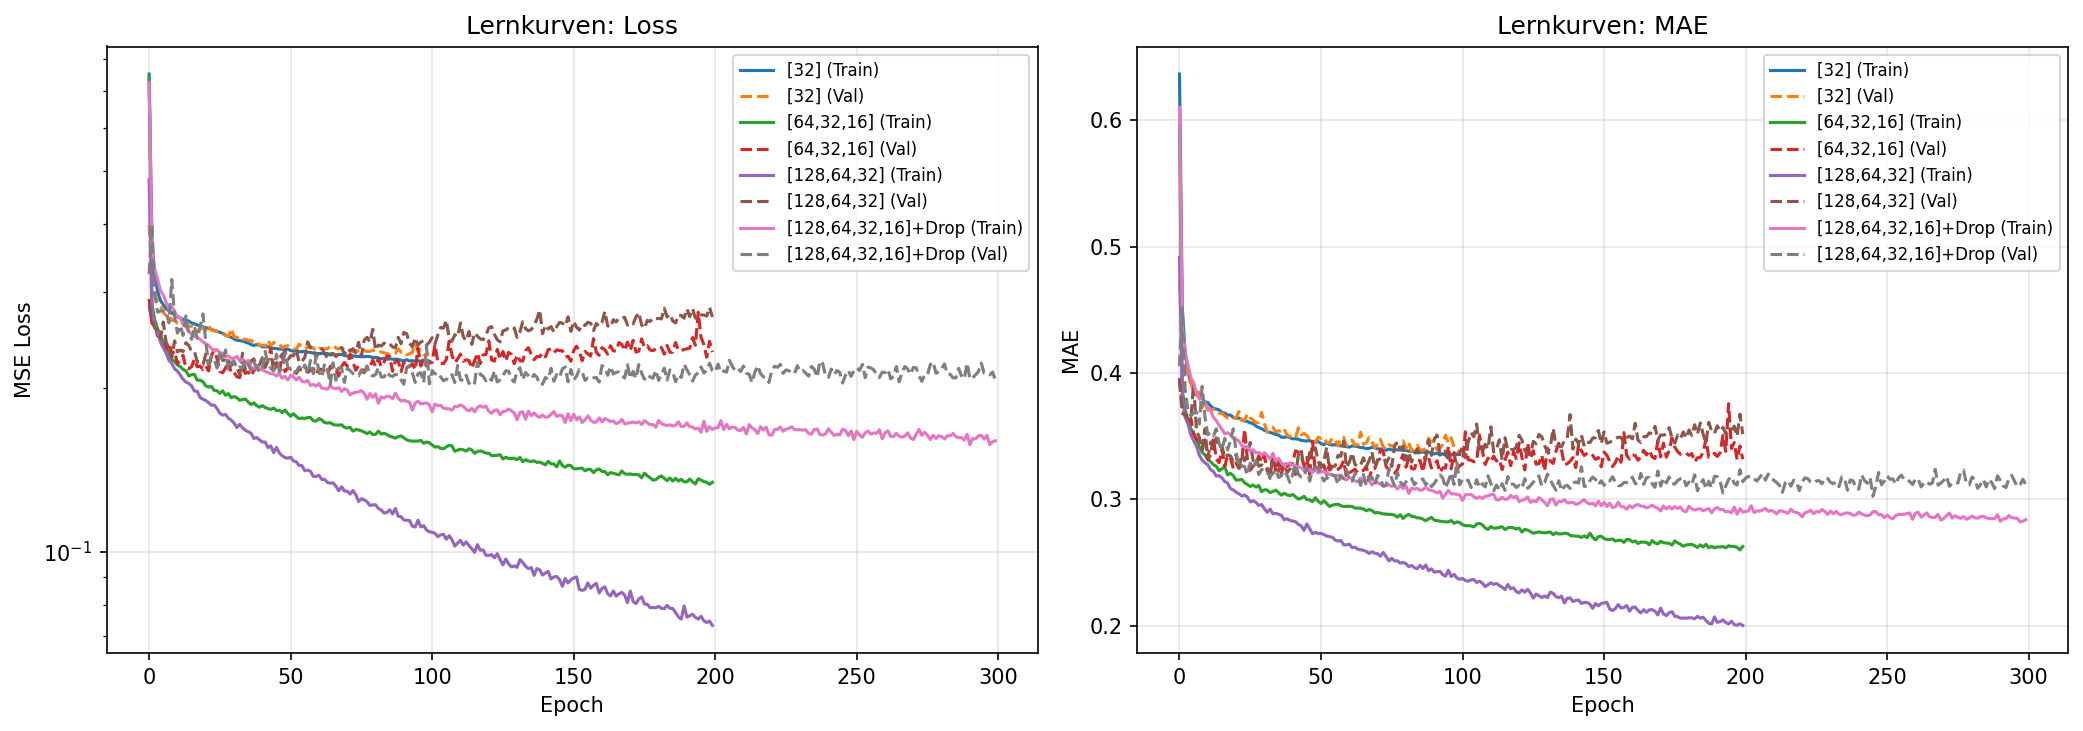
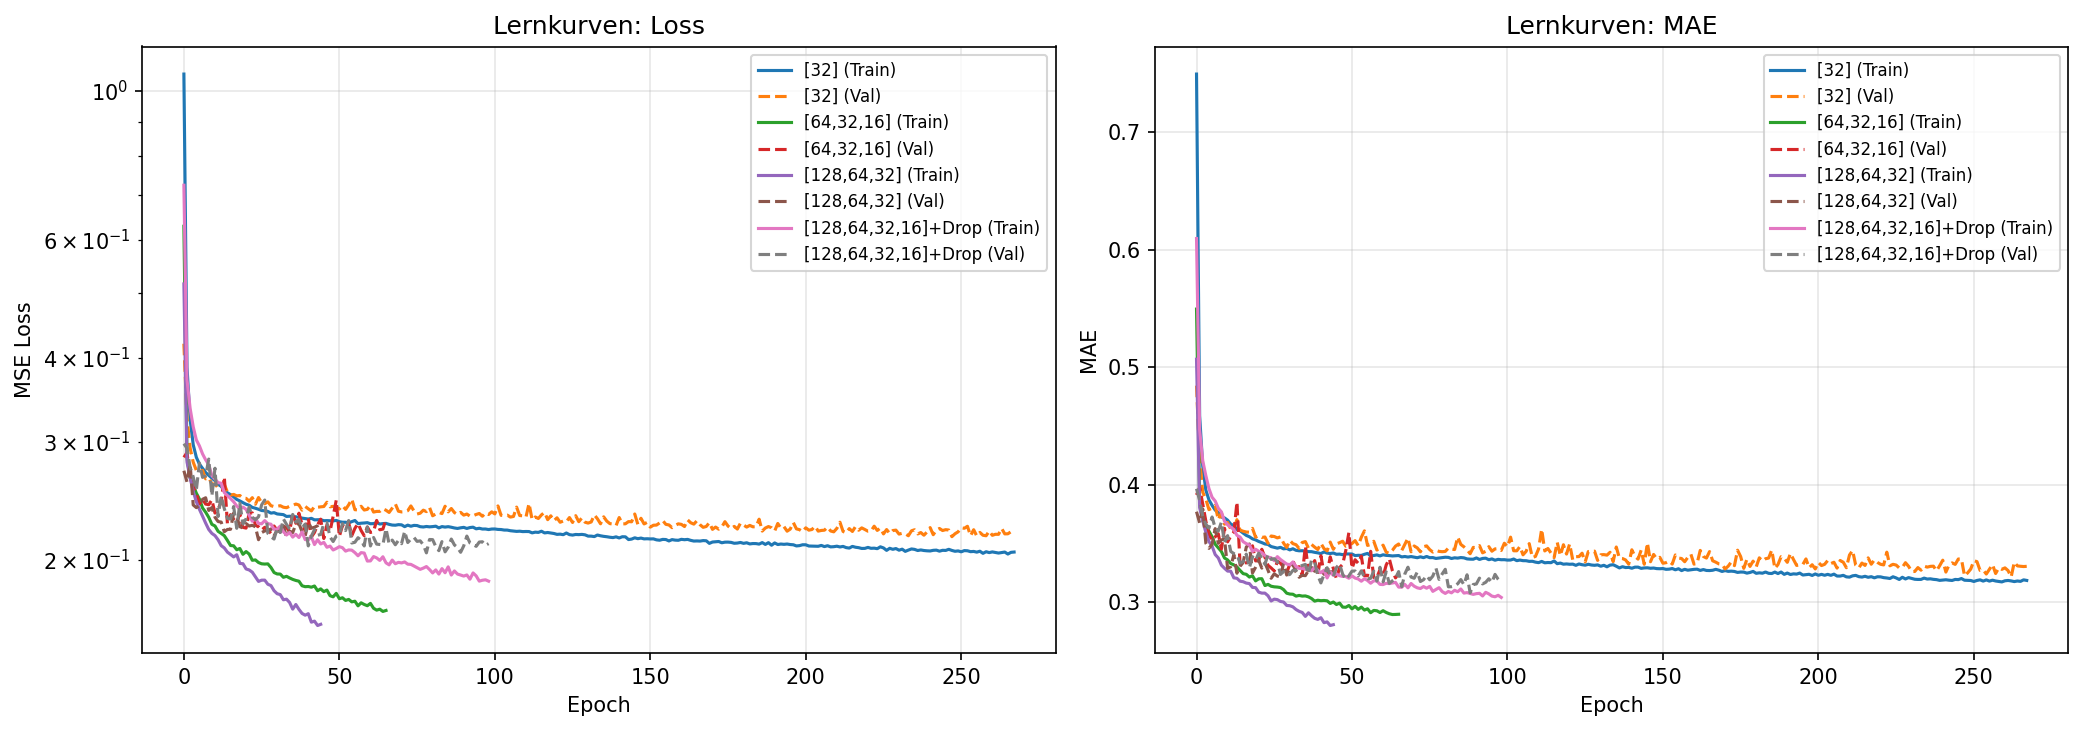
early stop eingefügt

diff --git a/portfolio/Logbuch_Kolja_Scriba.md b/portfolio/Logbuch_Kolja_Scriba.md
@@ -82,14 +82,27 @@
 
 ## Eintrag 3
 
-**Datum:**   25.02.2026 10:00 - 
-**Titel:** Neural Network Logbuch
+**Datum:**   25.02.2026 10:00 - 17:00
+**Titel:** Neural Network Logbuch Early Stop eingefügt um Overfitting beim NN zu vermeiden 
 **Aus Gruppentreffen:** Eigenständig
 
 **Arbeitsschritte:**
-- lokaler Main Breach und origin main Breach auf Git Hub haben unterschiedliche Commits 
-- Lösung dafür git pull --rebase origin main sorgt dafür dass die lokalen Commits oben auf die Remote Änderungen draufgesetzt werden 
-- 
+	•	lokaler Main Breach und origin main Breach auf Git Hub haben unterschiedliche Commits 
+  	•	Lösung dafür git pull --rebase origin main sorgt dafür dass die lokalen Commits oben auf die Remote Änderungen draufgesetzt werden 
+  	•	versuchen eines Early Stopping 
+  	•	für die implementierung wurde eine Copy von Notebook 5 erstellt 
+	•	Early Stopping in der Funktion train_and_evaluate() implementiert
+	•	Keras-Callback EarlyStopping verwendet
+	•	Überwachung des Validierungsfehlers (monitor="val_loss")
+	•	patience=20 gesetzt → Training stoppt nach 20 Epochen ohne Verbesserung
+	•	restore_best_weights=True aktiviert → beste Gewichte werden automatisch wiederhergestellt
+	•	Callback in model.fit() über callbacks=[early_stop] eingebunden
+	•	Ziel: Overfitting vermeiden und Trainingszeit reduzieren
+	•	Beobachtung: Bei 100 Epochen kein vorzeitiger Abbruch → Modell zeigte noch Verbesserung
+	•	Maximale Epochenzahl auf 300 erhöht
+	•	Training stoppte automatisch bei Epoche 74
+	•	Overfitting wurde dadurch reduziert
+	•	Trainingszeit wurde effizient genutzt
 
 **Entscheidungen:**
 - 
